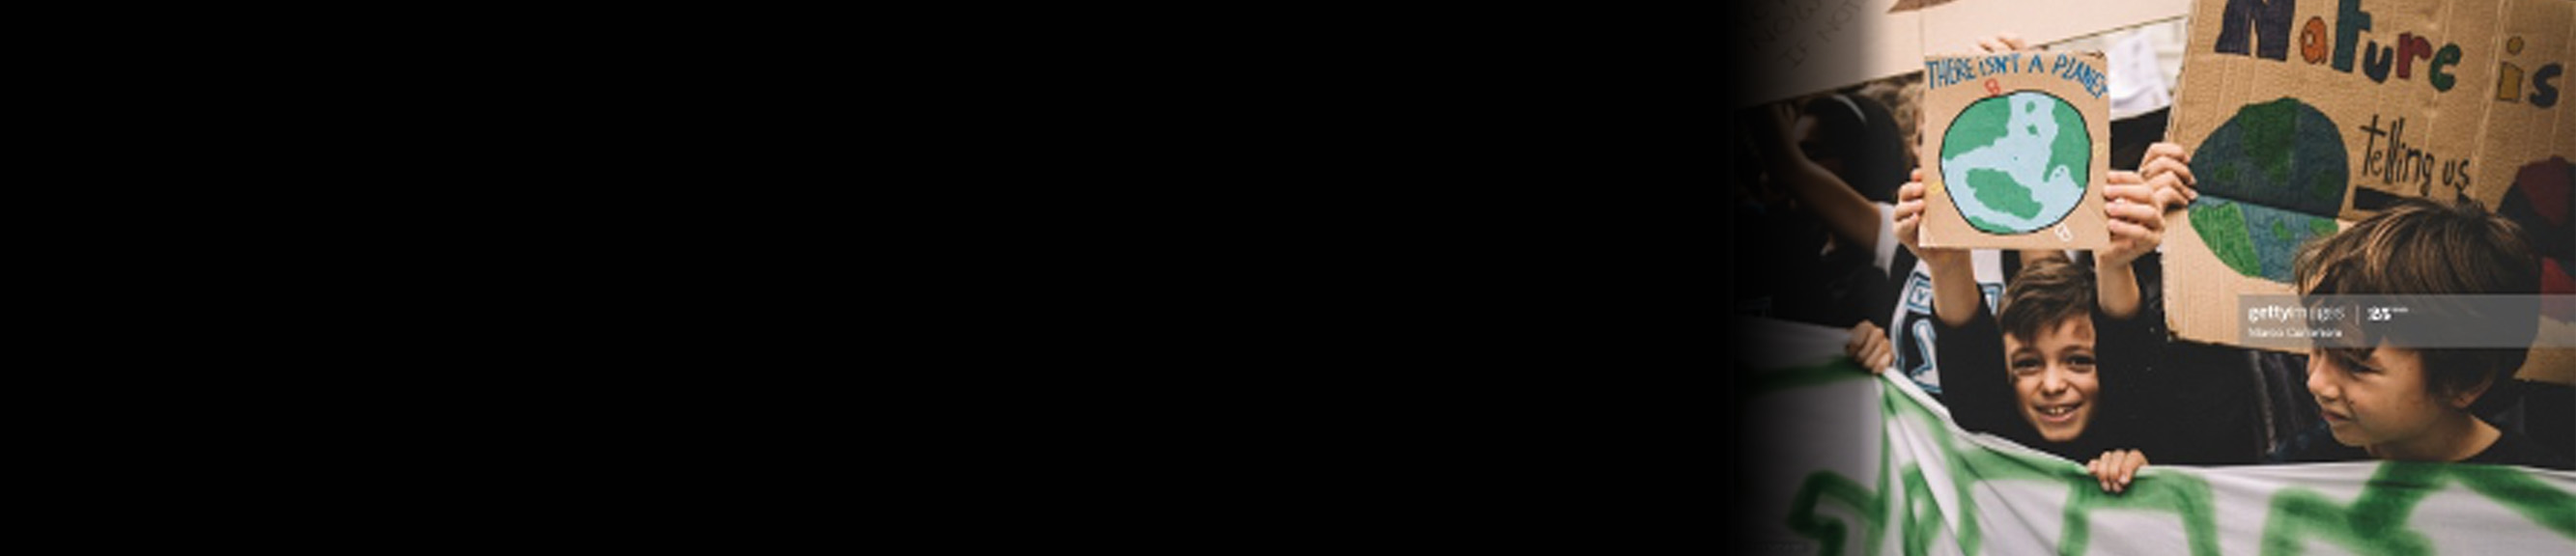
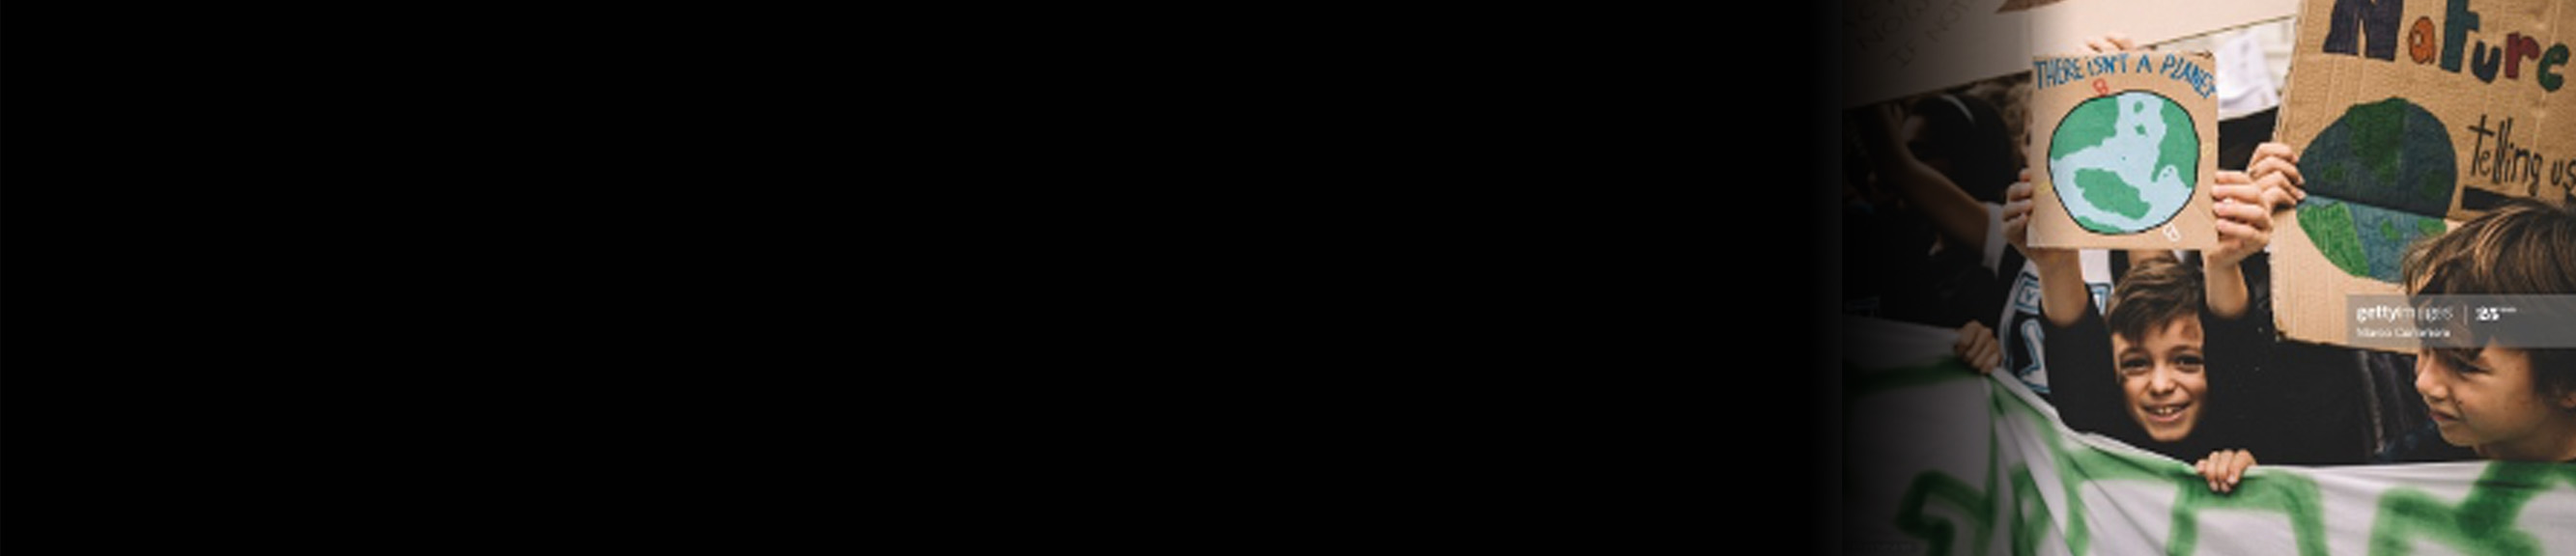
Modify ESG bannerx2. Remove ESG chart PNG files.

Changed region(s): [[0.6847, 0.0, 1.0, 1.0]]

diff --git a/ESG.html b/ESG.html
@@ -367,7 +367,7 @@
     </div>
   </header>
   <main>
-    <section class="banner sec-pd js-fillbg " style="background-image: url( images/banner_esg.jpg)">
+    <section class="banner sec-pd js-fillbg " style="background-image: url( images/banner_esg.jpg);background-position: center right;">
       <div class="container">
         <div class="row">
           <div class="col-md-7">
@@ -410,7 +410,7 @@
                   managing the storage of data from our expanding digital universe. As a corporate citizen with a
                   growing global presence, we are committed to environmental sustainability, operational excellence and
                   supporting our employees and communities around the world.</p>
-                <p>Silicon Motion fully supports the vision and goals of the <a href="http://www.responsiblebusiness.org/code-of-conduct/" target="_blank">Responsible Business Alliance (RBA)</a>, and has adopted RBA's Code of Conduct in
+                <p>Silicon Motion fully supports the vision and goals of the <a href="http://www.responsiblebusiness.org/" target="_blank">Responsible Business Alliance (RBA)</a>, and has adopted <a href="http://www.responsiblebusiness.org/code-of-conduct/" target="_blank">RBA's Code of Conduct</a> in
                   creating sustainable value for workers, the environment and our business and in collaborating with
                   suppliers and stakeholders to improve working and environmental conditions by adhering to industry
                   leading standards and practices.</p>

diff --git a/ESG-employee-and-workplace.html b/ESG-employee-and-workplace.html
@@ -367,7 +367,7 @@
     </div>
   </header>
   <main>
-    <section class="banner sec-pd js-fillbg " style="background-image: url( images/banner_employee-and-workplace.jpg)">
+    <section class="banner sec-pd js-fillbg " style="background-image: url( images/banner_employee-and-workplace.jpg);background-position: center right;">
       <div class="container">
         <div class="row">
           <div class="col-md-7">
@@ -588,7 +588,7 @@
       <section class="sec-pd" data-aos="fade-up">
         <div class="container">
           <div class="editor">
-            <h3>Conflict-Free Minerals</h3>
+            <h4>Conflict-Free Minerals</h4>
             <p>We have adopted a <a href="https://www.siliconmotion.com/uploads/about/Conflict-Free-Minerals-Statement.pdf" download>Conflict‐Free Minerals Statement</a> that guides the sourcing of minerals used in our products. (As defined by the Dodd‐Frank Act, Section 1502, conflict minerals include tantalum, tin, tungsten and gold from the Democratic Republic of Congo, or adjoining countries.)</p>
           </div>
         </div>

diff --git a/ESG-governance.html b/ESG-governance.html
@@ -367,7 +367,7 @@
     </div>
   </header>
   <main>
-    <section class="banner sec-pd js-fillbg " style="background-image: url( images/banner_governance.jpg)">
+    <section class="banner sec-pd js-fillbg " style="background-image: url( images/banner_governance.jpg);background-position: center right;">
       <div class="container">
         <div class="row">
           <div class="col-md-7">
